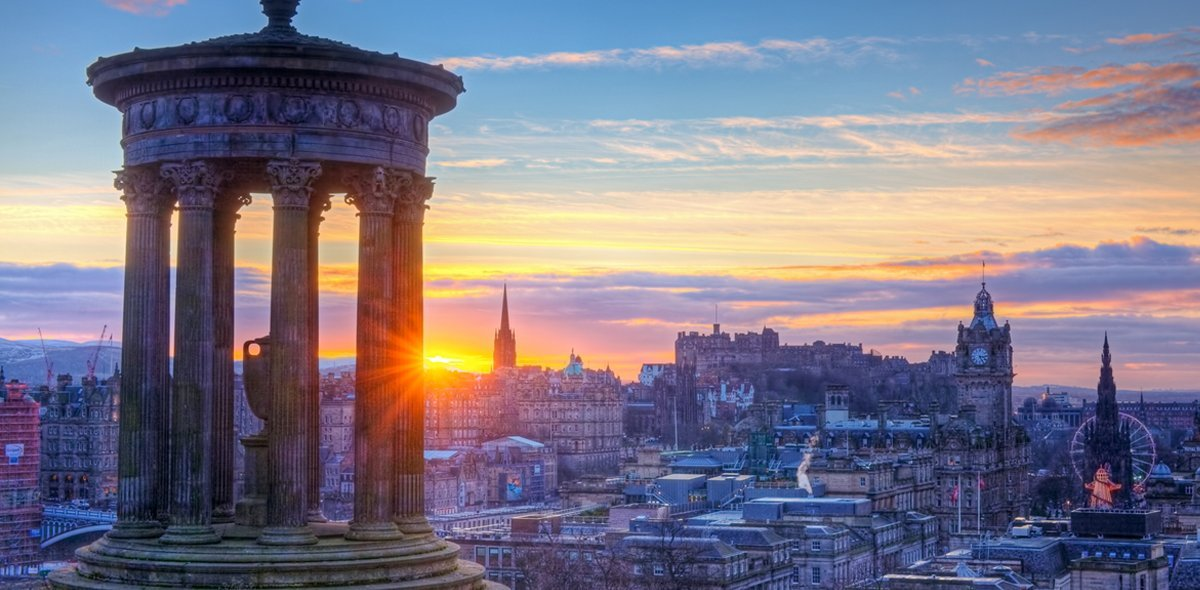
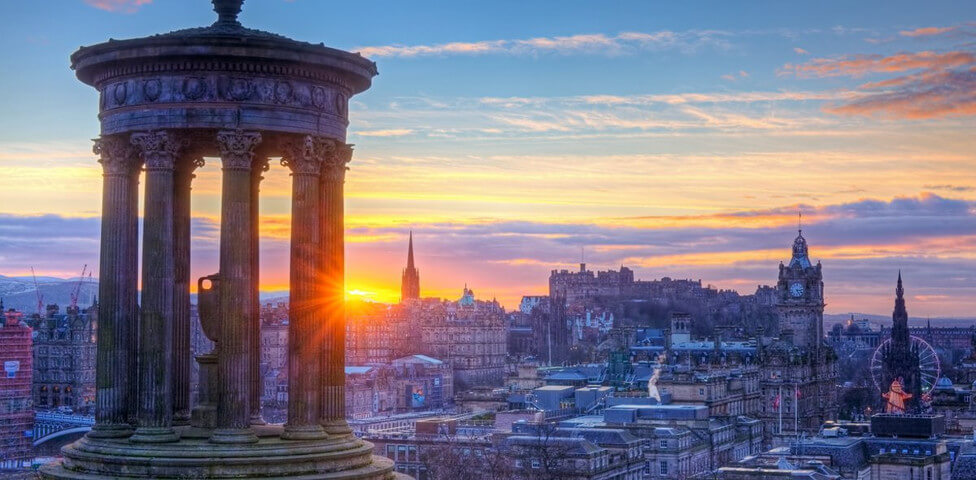
Nothing to see here

diff --git a/_includes/head.html b/_includes/head.html
@@ -4,7 +4,7 @@
 	<meta name="viewport" content="width=device-width, initial-scale=1">
 	<meta name="theme-color" content="#943526">
 
-	<meta property="og:image" content="{{ site.url }}{{ site.baseurl }}/thumbnailg.jpg" />
+	<meta property="og:image" content="{{ site.url }}{{ site.baseurl }}/thumbnail.jpg" />
 
 	<link rel="icon" href="favicon.ico" type="image/ico" />
 
